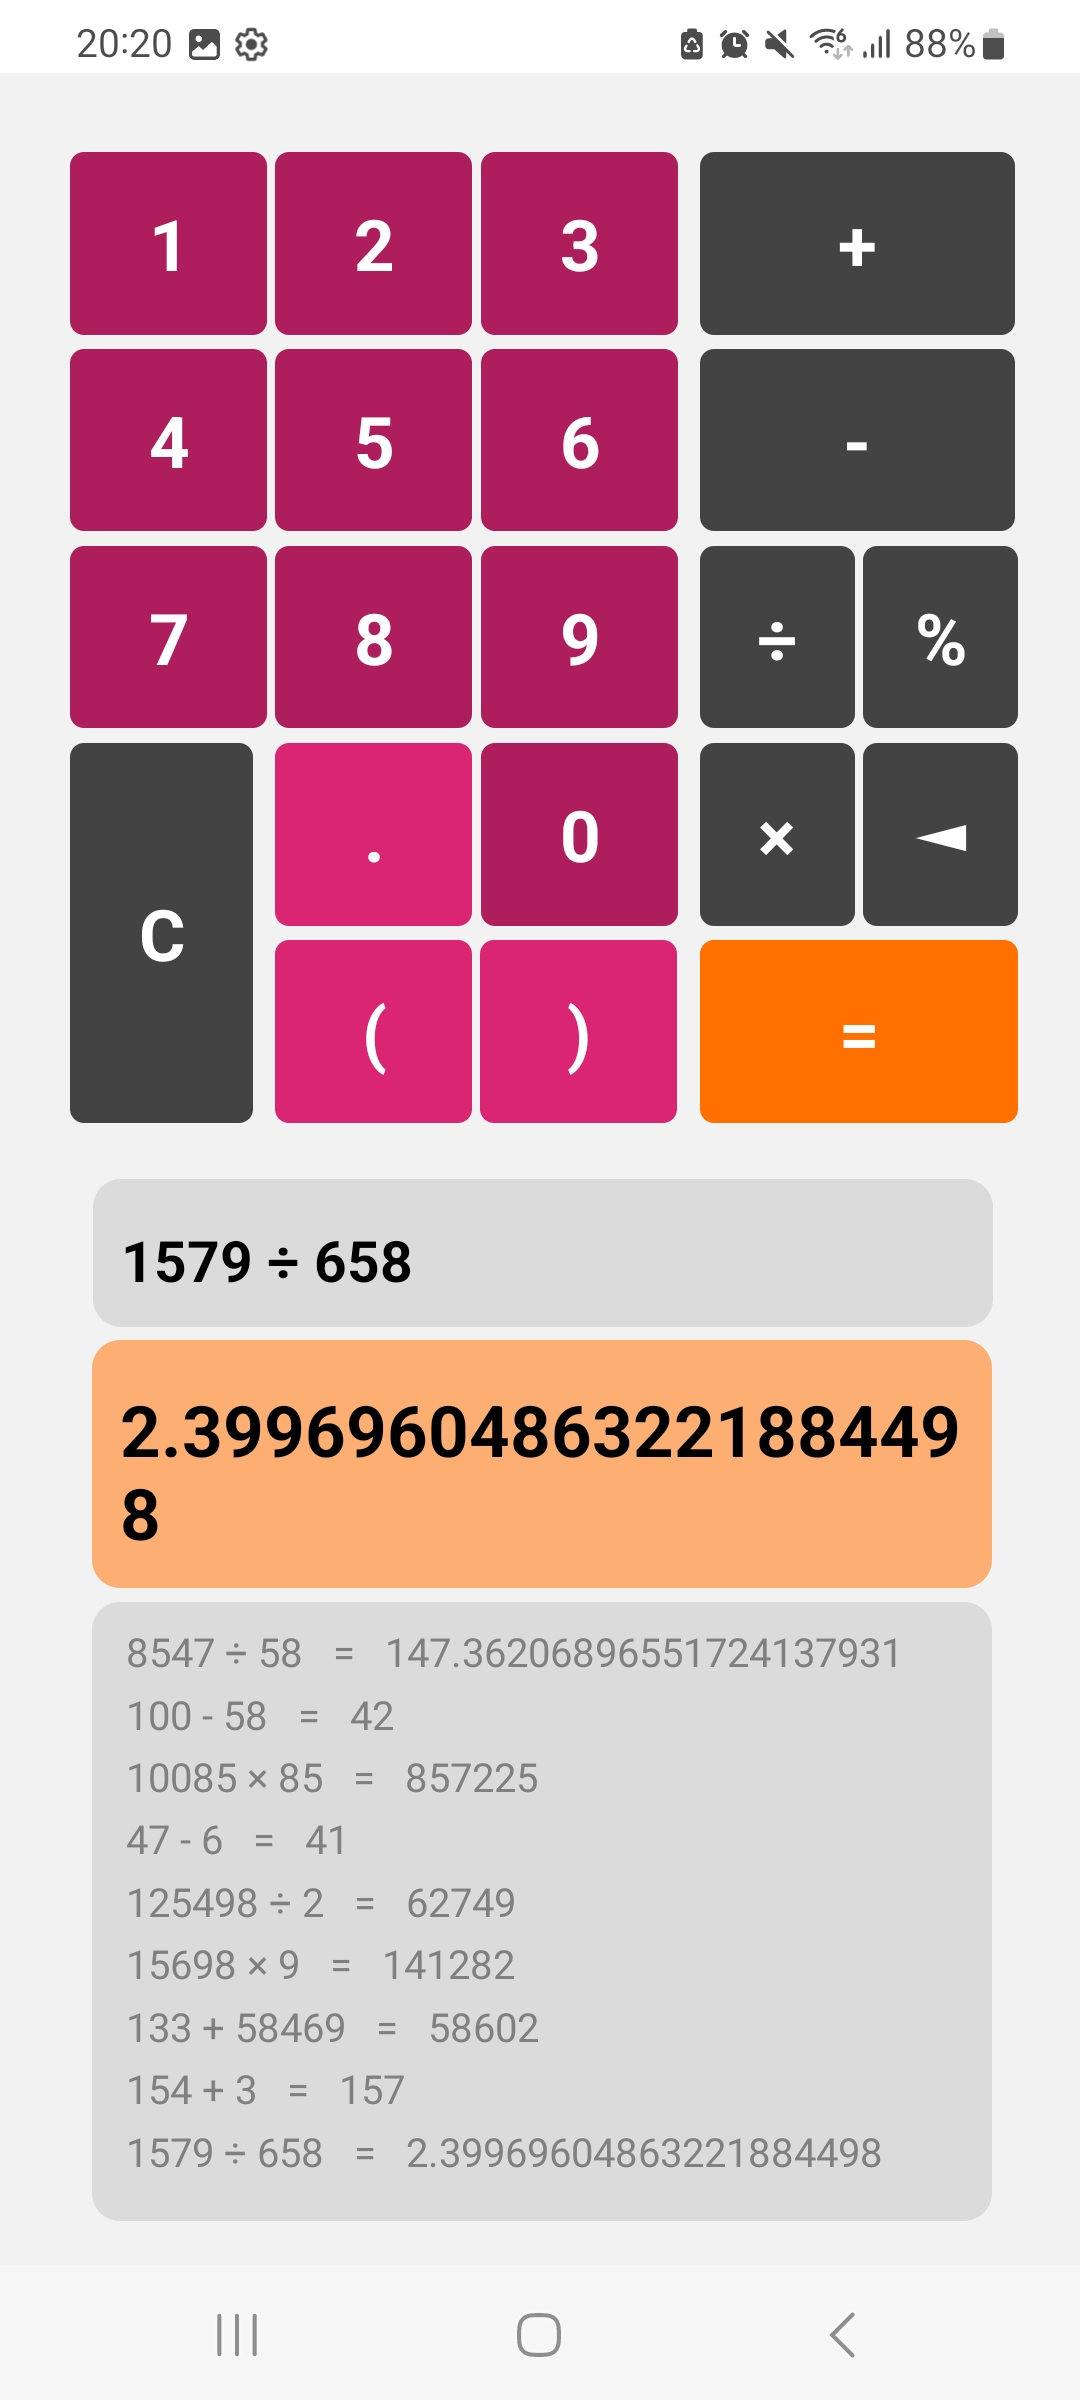
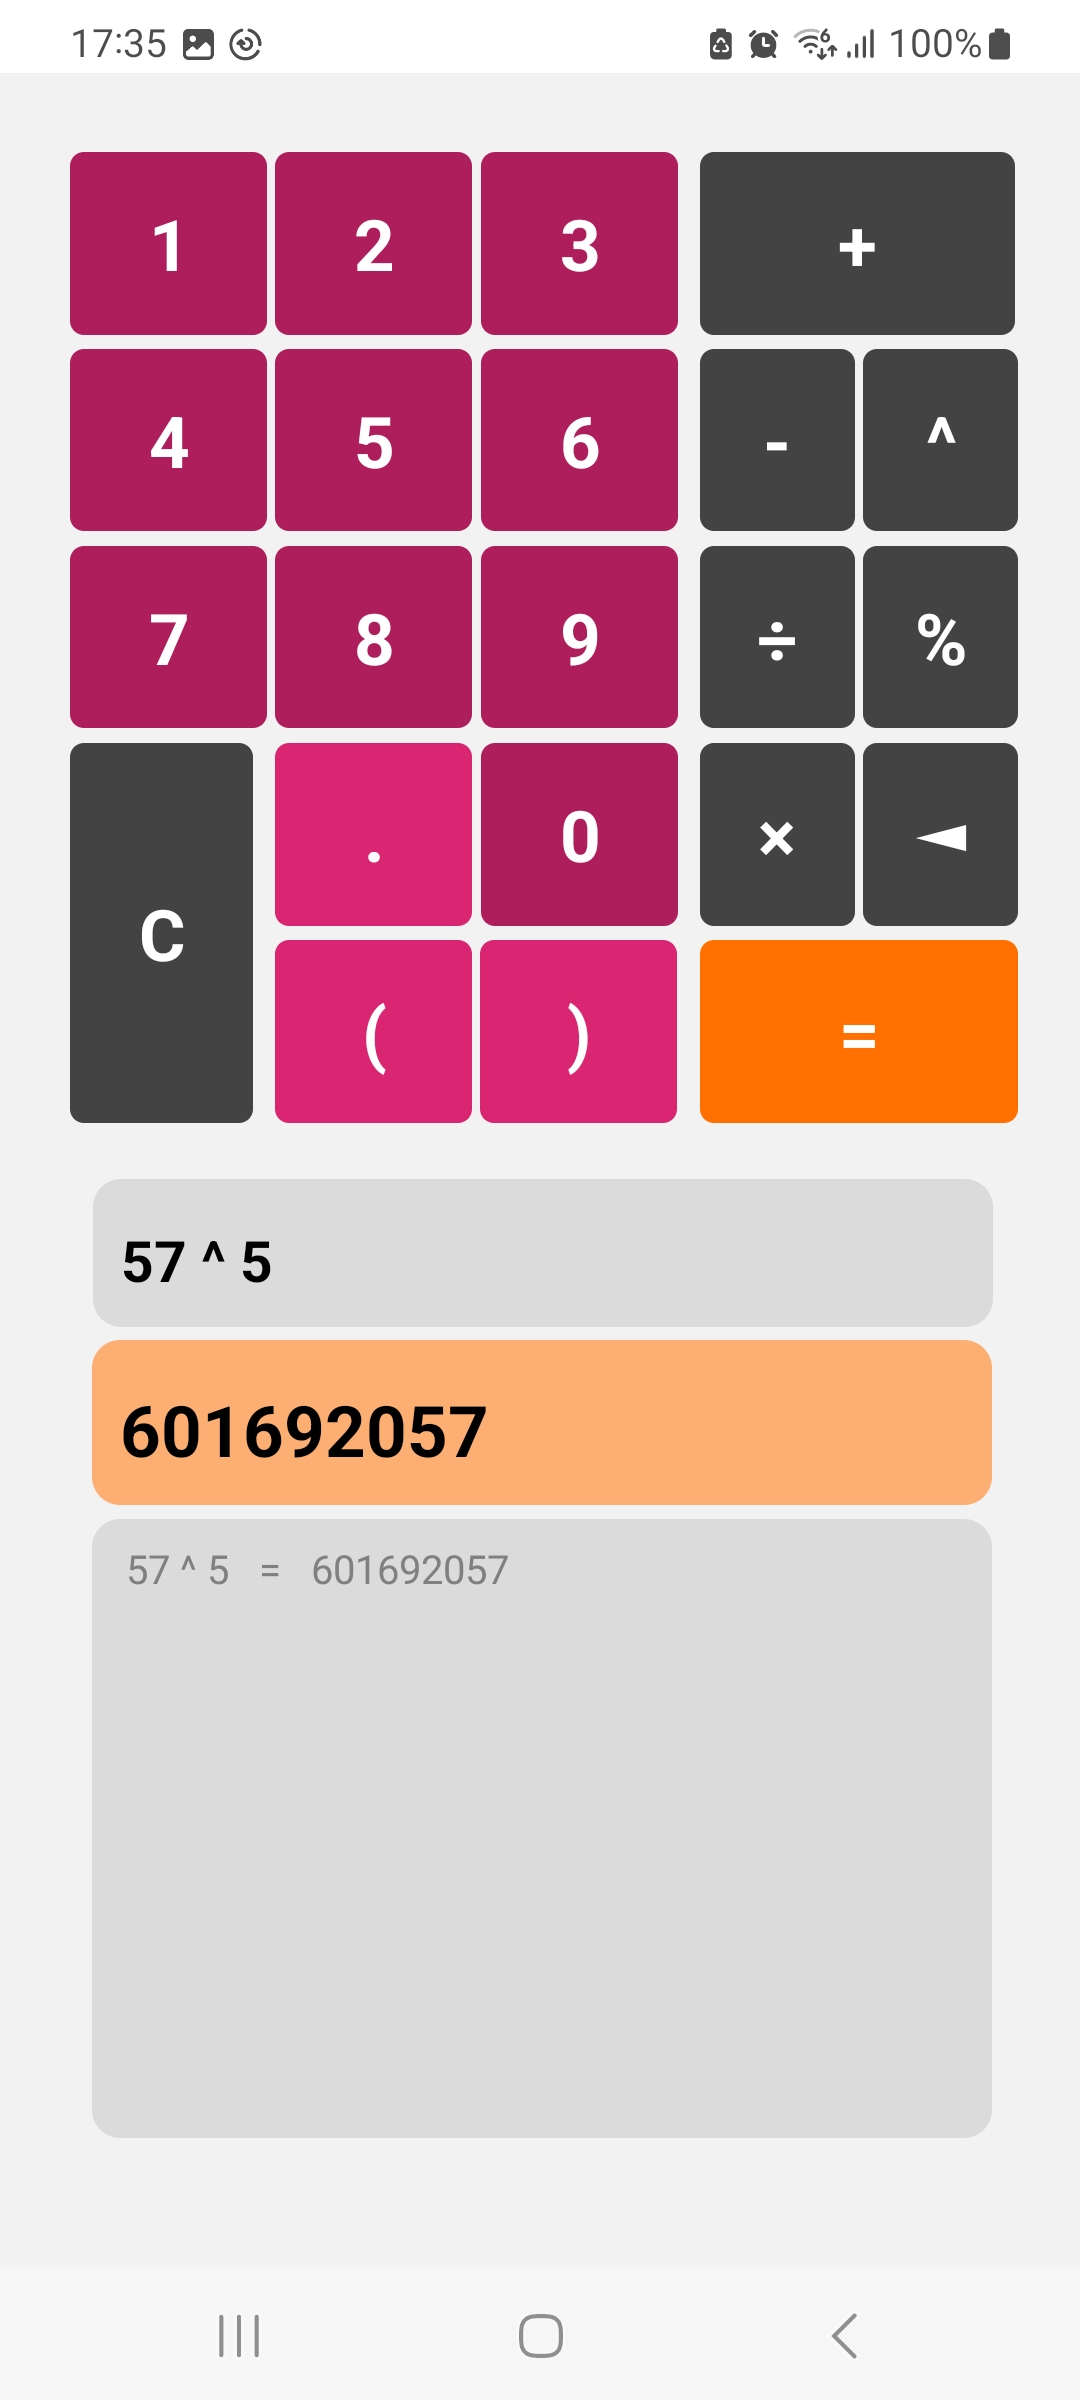
formatQuery updated for new buttons - Power button added, screenshots updated

diff --git a/app/index.tsx b/app/index.tsx
@@ -3,6 +3,7 @@ import { useState } from "react";
 import Output from "../assets/components/Output";
 import { calc } from "a-calc/es";
 import { formatQuery } from "../utils/formatQuery";
+import { aCalcFormat } from "../utils/a-calFormat";
 
 
 export default function Index() {
@@ -236,6 +237,19 @@ export default function Index() {
     }
   };
 
+  const pressPower = () => {
+    if (/[+*/%-]/g.test(query[query.length - 1]) ||
+      query.length === 0
+    ) {
+      return;
+    } else {
+      setRecentDecimal(false);
+      setRecentEquate(false);
+      setQuery(query + "**");
+      setShowQuery(query + "^");
+    };
+  };
+
 
   const pressEquate = () => { 
     if (/[+*/-]/g.test(query[query.length - 1]) ||
@@ -245,19 +259,19 @@ export default function Index() {
     const split = query.split(/([?=+ ?=* ?=/ ?=π ?=% ?=-])/g); 
     setRecentDecimal(false);
     setRecentEquate(true);
-    setOutput(calc(split.join(''), {_error: "Syntax Error"}));
+    setOutput(calc(aCalcFormat(split), {_error: "Syntax Error"}));
     if (queryHistory.length >= 9) {
       queryHistory.shift();
       setQueryHistory(
-        [...queryHistory, formatQuery(query.split(/([?=+ ?=* ?=/ ?=π ?=% ?=-])/g).join('')) + `   =   ${calc(split.join(''), {_error: "Syntax Error"} )}`]
+        [...queryHistory, formatQuery(query.split(/([?=+ ?=* ?=/ ?=π ?=% ?=-])/g).join('')) + `   =   ${calc(aCalcFormat(split), {_error: "Syntax Error"} )}`]
       );
     } else {
       setQueryHistory(
-        [...queryHistory, formatQuery(query.split(/([?=+ ?=* ?=/ ?=π ?=% ?=-])/g).join('')) + `   =   ${calc(split.join(''), {_error: "Syntax Error"} )}`]
+        [...queryHistory, formatQuery(query.split(/([?=+ ?=* ?=/ ?=π ?=% ?=-])/g).join('')) + `   =   ${calc(aCalcFormat(split), {_error: "Syntax Error"} )}`]
       );
     }
-    setQuery(calc(split.join(''),{_error: "Syntax Error"}));
-    if(/[.]/g.test(calc(split.join(''), {_error: "Syntax Error"}))){
+    setQuery(calc(aCalcFormat(split),{_error: "Syntax Error"}));
+    if(/[.]/g.test(calc(aCalcFormat(split), {_error: "Syntax Error"}))){
       setRecentDecimal(true);
     }
   };
@@ -353,13 +367,23 @@ export default function Index() {
             </TouchableOpacity>
           </View>
 
-          <View style={{ width: 100, height: 55, paddingLeft: 5, paddingTop: 10, paddingBottom: 5}}>
+          <View style={{width: 50, height: 55, paddingLeft: 5, paddingTop: 10, paddingBottom: 5}}>
             <TouchableOpacity
               onPress={pressSubtract}
-              style={styles.wideSymbolButton}
+              style={styles.symbolButton}
               accessibilityLabel="subtract"
             >
               <Text style={styles.numberText}>-</Text>
+            </TouchableOpacity>
+          </View>
+
+          <View style={{width: 50, height: 55, paddingLeft: 5, paddingTop: 10, paddingBottom: 5}}>
+            <TouchableOpacity
+              onPress={pressPower}
+              style={styles.symbolButton}
+              accessibilityLabel="power"
+            >
+              <Text style={styles.numberText}>^</Text>
             </TouchableOpacity>
           </View>
 

diff --git a/__tests__/formatQuery.test.js b/__tests__/formatQuery.test.js
@@ -55,6 +55,14 @@ describe('Given a query string with no spaces, convert the string to a readable 
     });
     test('Given "80056%620", return "80056 % 620"', () => {
         const string = '80056 % 620';
-        expect(formatQuery(string)).toBe('80056 % 620')
-    })
+        expect(formatQuery(string)).toBe('80056 % 620');
+    });
+    test('Given "3**3", return "3 ^ 3"', () => {
+        const string = '3**3';
+        expect(formatQuery(string)).toBe('3 ^ 3');
+    });
+    test('Given "3**3**3", return "3 ^ 3 ^ 3"', () => {
+        const string = '3**3**3';
+        expect(formatQuery(string)).toBe('3 ^ 3 ^ 3');
+    });
 });

diff --git a/utils/formatQuery.js b/utils/formatQuery.js
@@ -7,7 +7,9 @@ const formatQuery = (string) => {
         return element;
     });
 
-    let split = pi.join("").split(/([?=+ ?=* ?=/ ?=× ?=÷ ?=π ?=%])/g).join(" ");
+    pi = pi.join("").replaceAll("**", "^").split("");
+
+    let split = pi.join("").split(/([?=+ ?=* ?=/ ?=× ?=÷ ?=π ?=% ?=^])/g).join(" ");
 
     split = split.split("").map((element, index) => {
         let returnValue = "";

diff --git a/__tests__/calc.test.js b/__tests__/calc.test.js
@@ -105,4 +105,8 @@ describe('Given a string representing numbers & symbols, split the string & retu
         const string = '18-13-(2+(10-9))';
         expect(calc(string)).toBe('2');
     });
+    test('Given "3**5", return 243', () => {
+        const string = '3**5';
+        expect(calc(string)).toBe('243');
+    });
 });

diff --git a/utils/a-calFormat.js b/utils/a-calFormat.js
@@ -1,0 +1,10 @@
+const aCalcFormat = (array) => {
+
+    return [...array].map((element) => {
+        if(element === "×") return "*";
+        if(element === "÷") return "/";
+        else return element
+      }).join("");
+}
+
+module.exports = { aCalcFormat };

diff --git a/README.md b/README.md
@@ -4,7 +4,7 @@ Basic calculator application built using React Native with a-calc (https://www.n
 
 ## Setup
 
-The apk can be downloaded here if you want to try to app: https://drive.google.com/file/d/1n0kUcZ220H0bzcjGTGBW9CP4p5Mq9_jN/view?usp=drive_link
+The apk can be downloaded here if you want to try to app: https://drive.google.com/file/d/1lO-gYeNze0Yk7rvAb5l7tsI2UT_yOPo-/view?usp=drive_link
 
 Clone the repo:
 
@@ -29,6 +29,7 @@ Their are numerous approaches to bundling the code, follow the instructions in t
 ![schematic](Screenshot_3_calc.jpg)
 ![schematic](Screenshot_4_calc.jpg)
 ![schematic](Screenshot_5_calc.jpg)
+![schematic](Screenshot_6_calc.jpg)
 
 # Basic Layout to be Attempted
 
